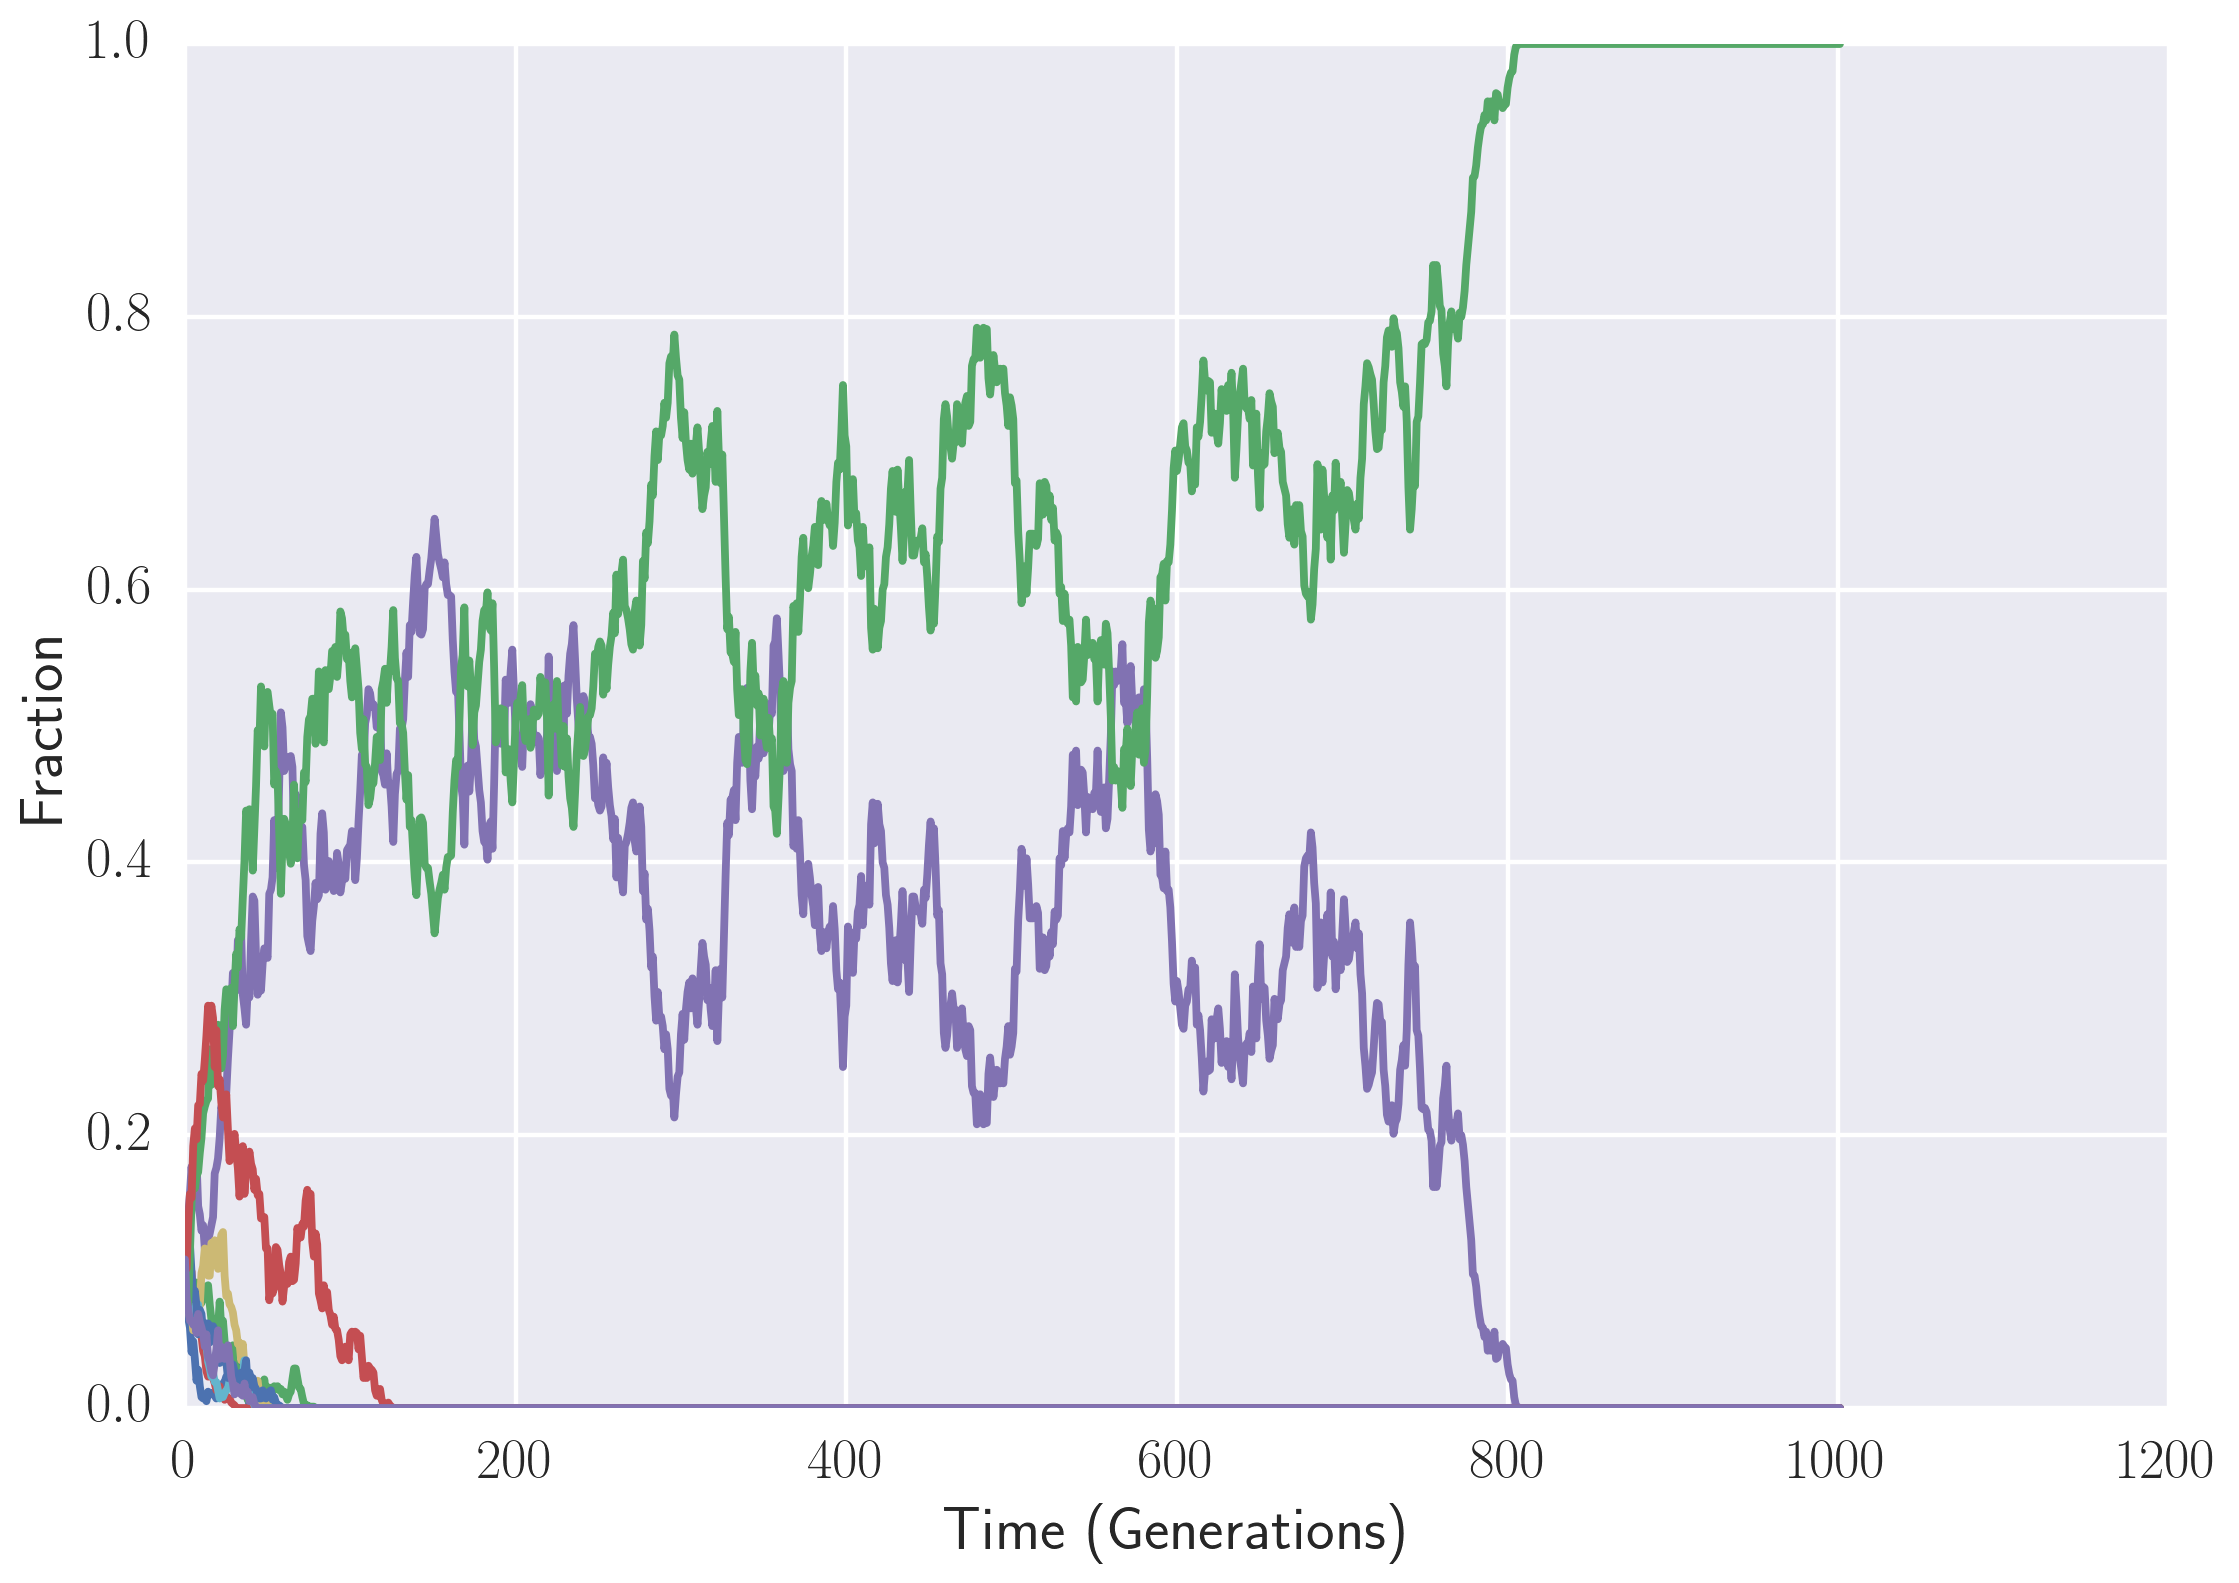
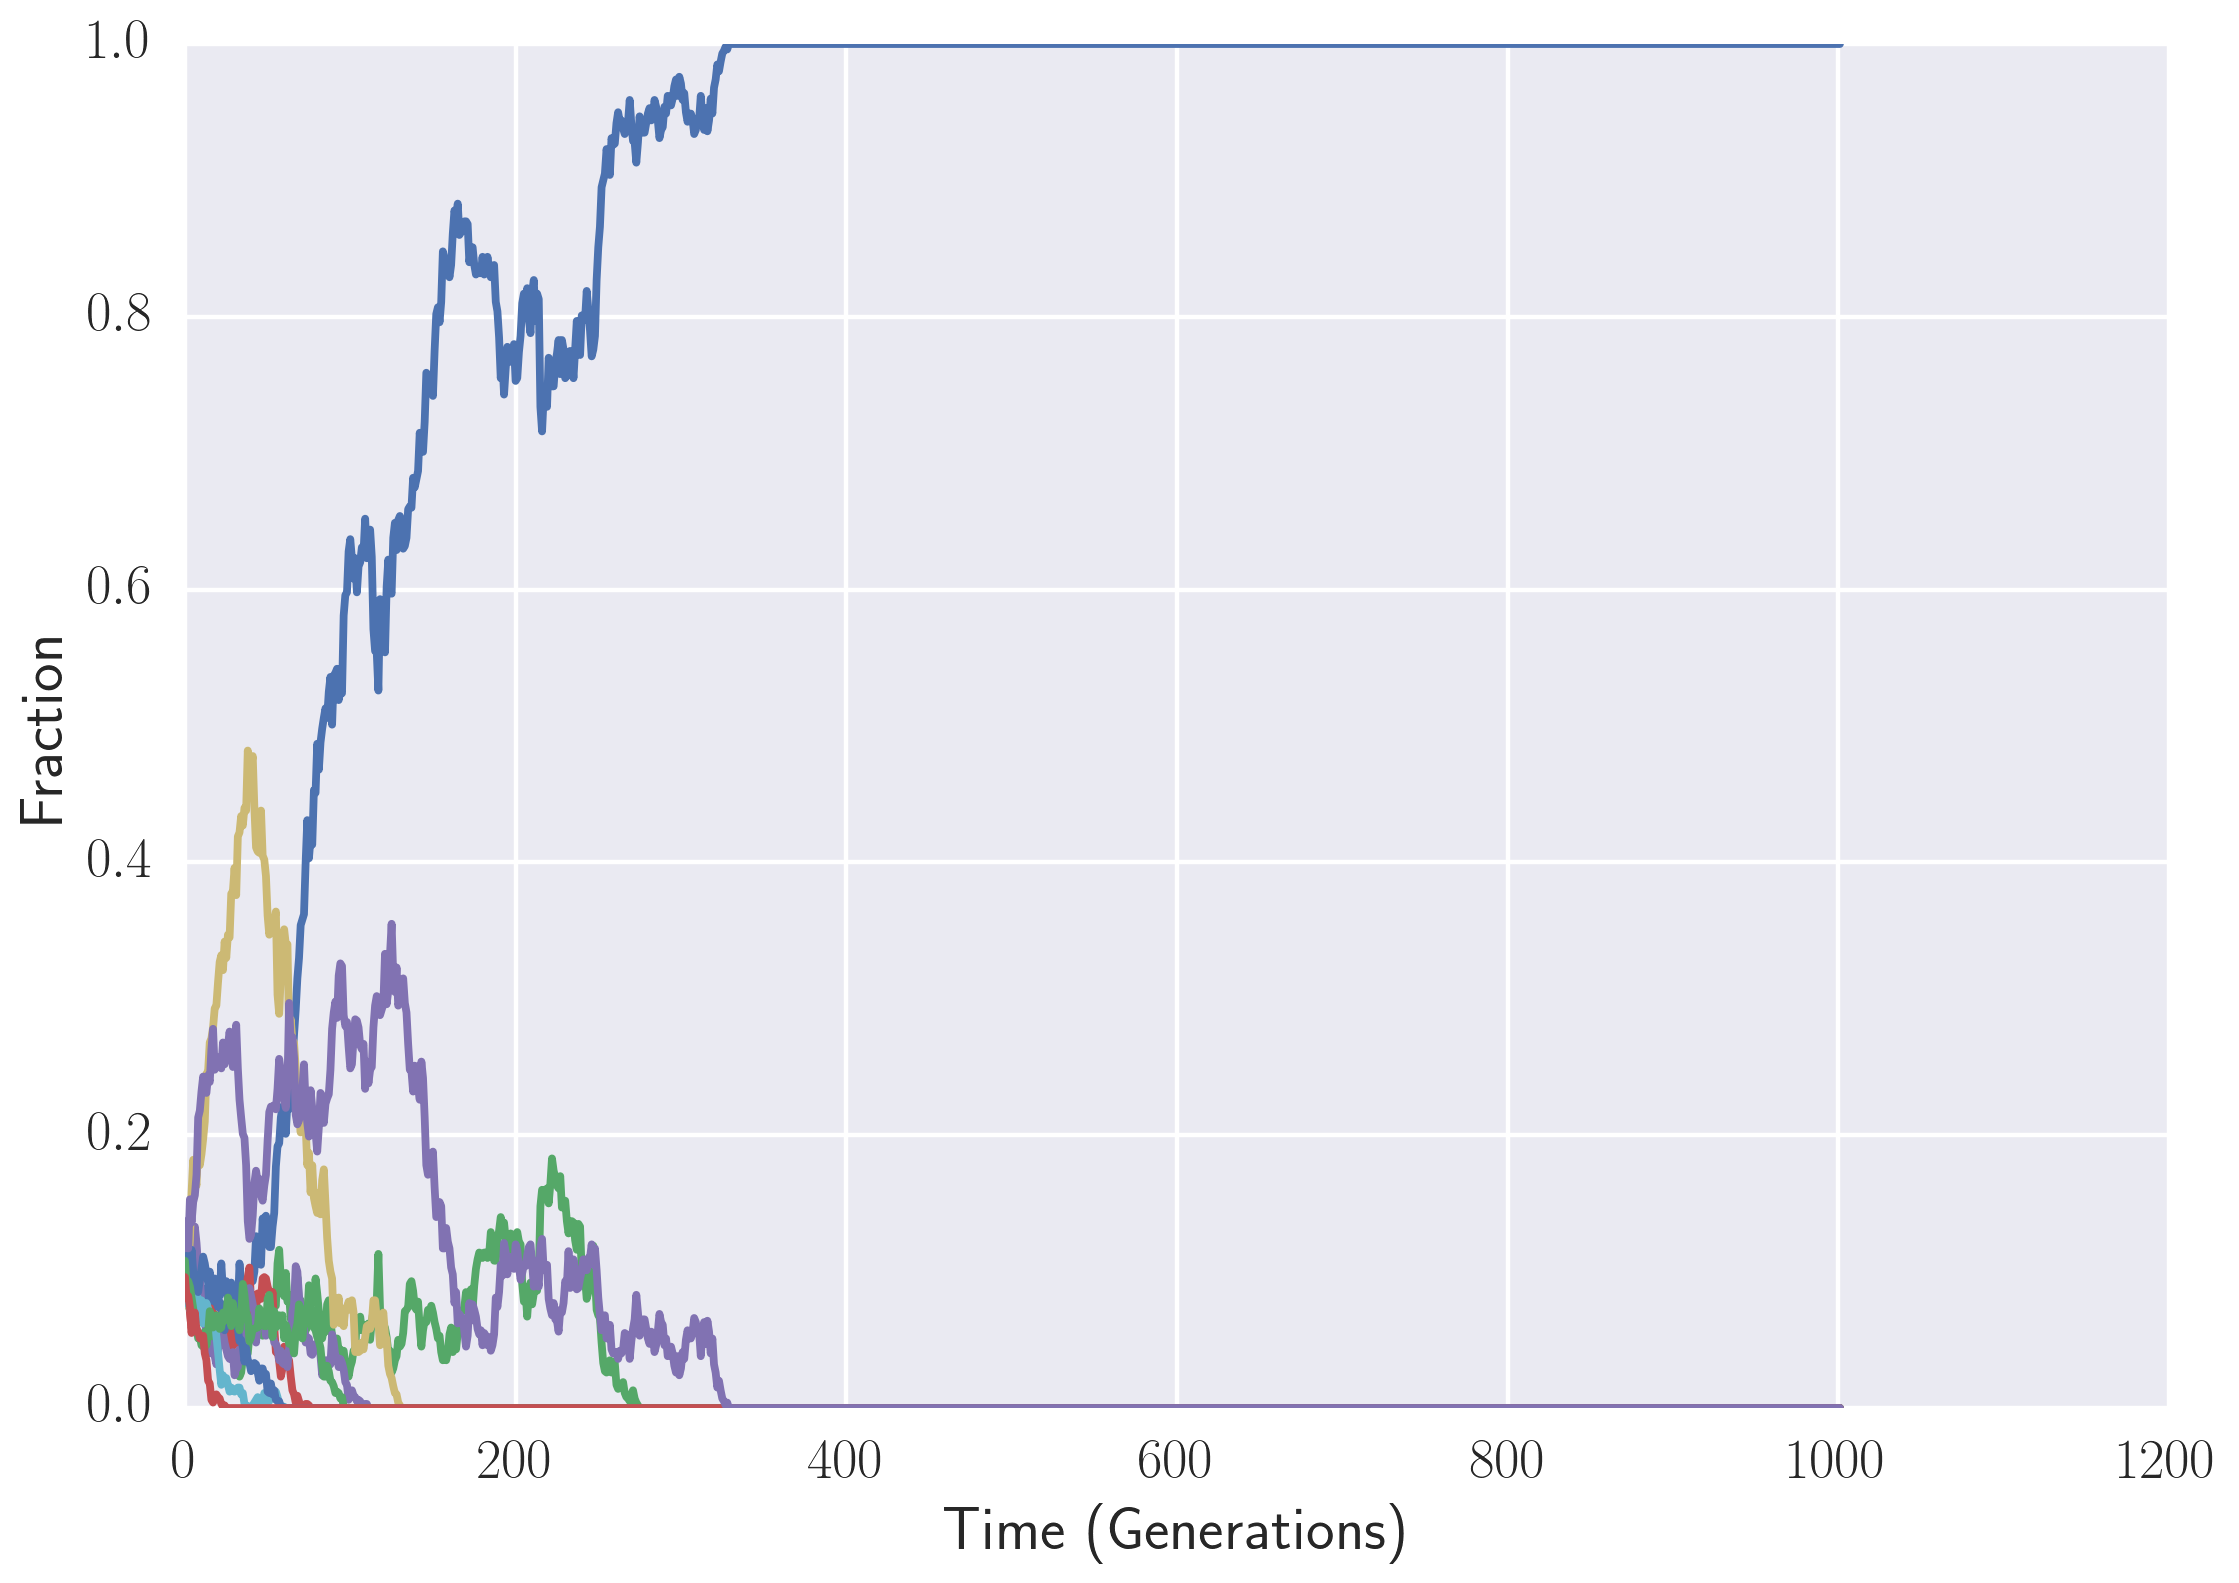
Fixed images.  And the ipython notebook.

Changed region(s): [[0.0616, 0.031, 0.5239, 0.8977], [0.5239, 0.031, 0.678, 0.3714], [0.5239, 0.5262, 0.678, 0.8667]]

diff --git a/README.md b/README.md
@@ -14,3 +14,6 @@ for examples of how to use the code.
 ## Muller's "Mutational Meltdown"
 
 ![Mutational Metldown](https://github.com/btweinstein/stepping_stone_expansions/blob/master/examples/mutational_meltdown.png)
+
+## A single deme (well-mixed population) with different fitnesses
+
